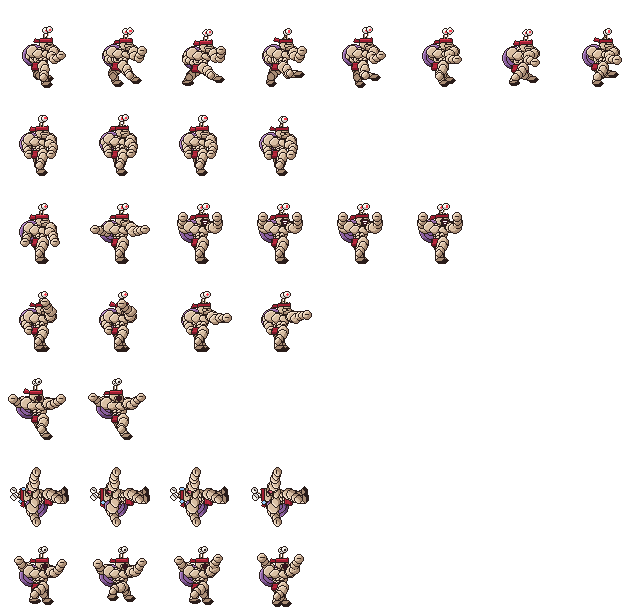
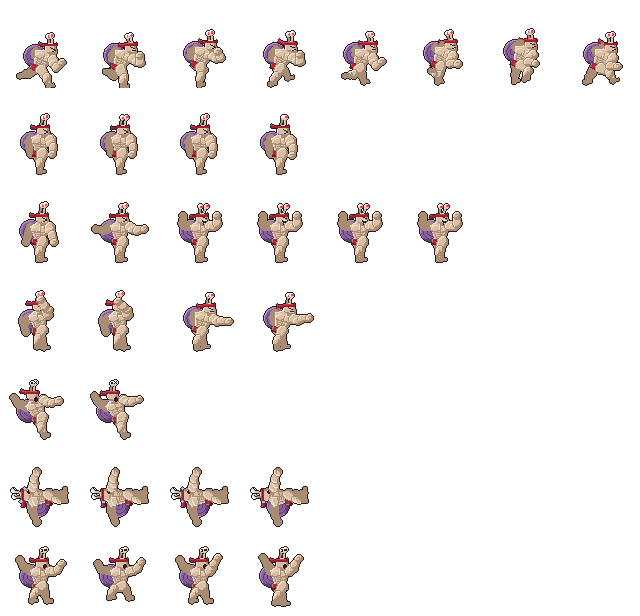
Senzi: contorno só na silhueta, sprint inclinado pose a pose; muros de tamanho sorteado (D112)
Claude-Session: https://claude.ai/code/session_01UUHK2L34Y5k1sZ9bGVAo6W

diff --git a/tools/art/senzi_sprites.py b/tools/art/senzi_sprites.py
@@ -83,20 +83,29 @@ class Canvas:
             o |= self._shift(m, dx, dy)
         return o
 
-    def part(self, draw_fn, base, dark=None, light=None, ink=True, shade=2):
-        """Uma parte: contorno de nanquim em volta, a cor e, recortadas nela, a sombra (embaixo e à
-        direita) e a luz (em cima e à esquerda)."""
+    def part(self, draw_fn, base, dark=None, light=None, ink=False, shade=2, sep=None):
+        """Uma parte: a cor e, recortadas nela, a sombra (embaixo e à direita) e a luz (em cima e à
+        esquerda). Sem contorno por parte (o nanquim vai só em volta da silhueta, no fim); `sep` é
+        uma linha fina de separação em volta (para um membro na frente de outro)."""
         m = self._mask(draw_fn)
         if not m.any():
             return m
         if ink:
             self.img[self._dilate(m) & ~m] = INK
+        elif sep is not None:
+            ring = self._dilate(m) & ~m & (self.img[:, :, 3] > 0)
+            self.img[ring] = sep
         self.img[m] = base
         if dark is not None:
             self.img[m & ~self._shift(m, -shade, -shade)] = dark
         if light is not None:
             self.img[m & ~self._shift(m, 1, 1)] = light
         return m
+
+    def outline(self):
+        """O nanquim: um contorno só, em volta da silhueta inteira."""
+        sil = self.img[:, :, 3] > 0
+        self.img[self._dilate(sil) & ~sil] = INK
 
     def line(self, p0, p1, col, w=1):
         im = Image.fromarray(self.img, "RGBA")
@@ -142,19 +151,32 @@ def polar(ang, ln):
 
 # ---------------------------------------------------------------- o boneco
 
+def rot(v, a):
+    """Gira o vetor (x, y) de tela por `a` rad (positivo: o alto vai para a frente, para a direita)."""
+    c, s_ = math.cos(a), math.sin(a)
+    return (v[0] * c - v[1] * s_, v[0] * s_ + v[1] * c)
+
+
+SEP = SKIN_D     # a linha fina que separa um membro do que está atrás dele
+
+
 def draw_senzi(pose):
     cv = Canvas()
     hip = pose["hip"]
-    lean = pose.get("lean", 0.0)
+    tilt = pose.get("tilt", 0.0)          # inclinação do tronco (a corrida de sprint: para a frente)
     breath = pose.get("breath", 0.0)
-    chest = add(hip, (lean * 6.0, -17.0 - breath))
-    sh_w = 13.0
-    sh_l = add(chest, (-sh_w, -1))
-    sh_r = add(chest, (sh_w, -1))
-    head = add(chest, (2.0 + lean * 3.0 + pose.get("head_dx", 0.0), -11.0 + pose.get("head_dy", 0.0)))
+
+    def U(dx, dy):
+        return add(hip, rot((dx, dy), tilt))
+
+    chest = U(0, -17.0 - breath)
+    sh_l = U(-12.0, -18.0 - breath)
+    sh_r = U(12.0, -18.0 - breath)
+    head = U(2.5 + pose.get("head_dx", 0.0), -29.0 + pose.get("head_dy", 0.0))
+    head = add(head, (pose.get("head_fwd", 0.0), 0))
 
     # a concha nas costas, atrás de tudo
-    shell_c = add(chest, (-11.0, 4.0 + pose.get("shell_dy", 0.0)))
+    shell_c = U(-11.0, -13.0 + pose.get("shell_dy", 0.0))
     cv.part(ell(shell_c, 13, 13), SHELL, SHELL_D, SHELL_L, shade=3)
     pts = []
     for i in range(40):
@@ -162,108 +184,105 @@ def draw_senzi(pose):
         r = 11.5 - i * 0.27
         pts.append((shell_c[0] + math.cos(a) * r, shell_c[1] + math.sin(a) * r))
     for i in range(len(pts) - 1):
-        cv.line(pts[i], pts[i + 1], INK, 1)
+        cv.line(pts[i], pts[i + 1], SHELL_D, 1)
 
     # as fitas da faixa, esvoaçando atrás da cabeça
     flap = pose.get("flap", 0.0)
     tail0 = add(head, (-6, -4))
-    cv.part(poly([tail0, add(tail0, (-7, -1 + flap)), add(tail0, (-8, 2 + flap)), add(tail0, (0, 2))]), BAND, BAND_D)
+    cv.part(poly([tail0, add(tail0, (-8, -2 + flap)), add(tail0, (-9, 2 + flap)), add(tail0, (0, 2))]), BAND, BAND_D)
 
-    # o braço de trás (atrás do tronco)
-    def arm(sh, a):
-        elbow = add(sh, polar(a["up"], 10.0))
-        fist = add(elbow, polar(a["fore"], 9.0))
-        bic = a.get("bic", 1.0)
-        cv.part(cap(sh, elbow, 5.0, 4.4), SKIN, SKIN_D, SKIN_L)
+    def arm(sh, a, front):
+        up_a = a["up"] + tilt * a.get("follow", 1.0)
+        fore_a = a["fore"] + tilt * a.get("follow", 1.0)
+        elbow = add(sh, polar(up_a, 10.5))
+        fist = add(elbow, polar(fore_a, 9.5))
+        sep = SEP if front else None
+        dk = SKIN_D
+        base = SKIN if front else SKIN_D
+        lt = SKIN_L if front else None
+        cv.part(cap(sh, elbow, 5.4, 4.6), base, dk, lt, sep=sep)
+        # o bíceps: volume no lado de dentro do braço, sem contorno (só a luz)
         mid = add(sh, (elbow[0] - sh[0], elbow[1] - sh[1]), 0.5)
-        # o bíceps: do lado de dentro do cotovelo
         nx, ny = -(elbow[1] - sh[1]), elbow[0] - sh[0]
         ln = math.hypot(nx, ny) or 1.0
         side = a.get("bic_side", 1.0)
-        bc = add(mid, (nx / ln * 2.6 * side, ny / ln * 2.6 * side))
-        cv.part(ell(bc, 5.2 * bic, 4.4 * bic), SKIN, SKIN_D, SKIN_L)
-        cv.part(cap(elbow, fist, 4.4, 3.6), SKIN, SKIN_D, SKIN_L)
-        fore_m = add(elbow, (fist[0] - elbow[0], fist[1] - elbow[1]), 0.4)
-        cv.part(ell(fore_m, 4.0, 3.6), SKIN, SKIN_D, SKIN_L)
-        cv.part(ell(fist, 4.4, 4.0), SKIN, SKIN_D, SKIN_L)
-        cv.line(add(fist, (-2, -1)), add(fist, (2, -1)), INK)   # nós dos dedos
-        if a.get("vein", True):
-            cv.line(add(bc, (-2, 1)), add(bc, (0, -1)), SKIN_D)
-            cv.line(add(bc, (0, -1)), add(bc, (2, 0)), SKIN_D)
+        bc = add(mid, (nx / ln * 2.0 * side, ny / ln * 2.0 * side))
+        cv.part(ell(bc, 4.8 * a.get("bic", 1.0), 4.0 * a.get("bic", 1.0)), base, dk, lt)
+        cv.part(cap(elbow, fist, 4.6, 3.8), base, dk, lt, sep=sep)
+        cv.part(ell(fist, 4.2, 3.9), base, dk, lt, sep=sep)
+        if front:
+            cv.line(add(fist, (-1.5, -1.5)), add(fist, (1.5, -1.5)), SKIN_D)   # nós dos dedos
 
-    arm(sh_l, pose["arm_back"])
-
-    # pernas (a de trás primeiro)
-    def leg(hp, lg, dark_side=False):
-        knee = add(hp, polar(lg["thigh"], 11.0))
-        foot = add(knee, polar(lg["calf"], 11.0))
-        base = SKIN_D if dark_side else SKIN
-        cv.part(cap(hp, knee, 5.6, 4.4), base, SKIN_D, None if dark_side else SKIN_L)
-        q = add(hp, (knee[0] - hp[0], knee[1] - hp[1]), 0.45)
-        cv.part(ell(add(q, (1.5, 0)), 4.6, 5.0), base, SKIN_D, None if dark_side else SKIN_L)
-        cv.part(cap(knee, foot, 4.0, 3.0), base, SKIN_D, None if dark_side else SKIN_L)
-        c2 = add(knee, (foot[0] - knee[0], foot[1] - knee[1]), 0.3)
-        cv.part(ell(add(c2, (-1.2, 0)), 3.4, 4.0), base, SKIN_D, None if dark_side else SKIN_L)
-        # o pé: uma sola de caramujo, larga
-        cv.part(ell(add(foot, (2.5, 1.0)), 5.5, 2.4), SKIN_D, INK)
+    def leg(hp, lg, front):
+        knee = add(hp, polar(lg["thigh"], 11.5))
+        foot = add(knee, polar(lg["calf"], 11.5))
+        base = SKIN if front else SKIN_D
+        lt = SKIN_L if front else None
+        sep = SEP if front else None
+        cv.part(cap(hp, knee, 6.0, 4.6), base, SKIN_D, lt, sep=sep)
+        cv.part(cap(knee, foot, 4.4, 3.0), base, SKIN_D, lt, sep=sep)
+        # a panturrilha (volume atrás da canela)
+        c2 = add(knee, (foot[0] - knee[0], foot[1] - knee[1]), 0.32)
+        cv.part(ell(add(c2, (-1.4, 0)), 3.4, 4.2), base, SKIN_D, lt)
+        # o pé: sola de caramujo, apontando para a frente
+        ang = lg.get("foot", 0.0)
+        cv.part(poly([add(foot, (-3, -2)), add(foot, rot((6.5, -1.5), ang)), add(foot, rot((6.5, 1.5), ang)), add(foot, (-3, 2))]), SKIN_D, None, None, sep=sep)
         return foot
 
-    hip_b = add(hip, (-4.0, 0))
-    hip_f = add(hip, (4.0, 0))
-    leg(hip_b, pose["leg_back"], dark_side=True)
+    # o braço e a perna de trás
+    arm(sh_l, pose["arm_back"], False)
+    leg(U(-3.5, 0), pose["leg_back"], False)
 
     # o tronco em V: cintura fina, ombros largos; o trapézio subindo até o pescoço
-    waist_l = add(hip, (-6.0, -2.0))
-    waist_r = add(hip, (6.0, -2.0))
-    cv.part(poly([waist_l, add(sh_l, (1, -2)), add(head, (-4, 5)), add(head, (4, 5)), add(sh_r, (-1, -2)), waist_r]), SKIN, SKIN_D, SKIN_L, shade=2)
-    # deltoides
-    cv.part(ell(sh_l, 6.4, 6.0), SKIN, SKIN_D, SKIN_L)
-    # peitoral: duas placas
-    pec_y = chest[1] + 2.0
-    for dx in (-5.4, 5.4):
-        cv.part(ell((chest[0] + dx, pec_y + breath * 0.3), 6.0, 4.6), SKIN, SKIN_D, SKIN_L)
-    # abdômen: seis gomos
+    torso = [U(-6, -2), U(-12, -19 - breath), U(-4, -24 - breath), U(5, -24 - breath), U(12, -19 - breath), U(6, -2)]
+    cv.part(poly(torso), SKIN, SKIN_D, SKIN_L, shade=2)
+    # peitoral: luz em cima, sombra embaixo, e a divisão (linha fina)
+    for dx in (-5.0, 5.0):
+        pc = U(dx, -15.5 - breath * 0.7)
+        cv.part(ell(pc, 5.6, 3.8), SKIN, SKIN_D, SKIN_L, shade=1)
+    cv.line(U(0, -18 - breath), U(0, -3), SKIN_D)
+    cv.line(U(-9, -12.5), U(-1, -11.5), SKIN_D)
+    cv.line(U(9, -12.5), U(1, -11.5), SKIN_D)
+    # abdômen: só as linhas dos gomos (sem bolinhas)
     for row in range(3):
-        y = pec_y + 7.0 + row * 3.6
-        for dx in (-2.4, 2.4):
-            cv.part(ell((chest[0] + dx + lean * (1 - row) * 0.5, y), 2.2, 1.6), SKIN, SKIN_D, SKIN_L, shade=1)
-    # serrátil
-    for i in range(3):
-        y = pec_y + 5.0 + i * 2.4
-        cv.line((chest[0] - 9.0 + i * 0.6, y), (chest[0] - 6.6 + i * 0.6, y + 1), INK)
+        y = -9.0 + row * 2.6
+        cv.line(U(-3.5, y), U(3.5, y), SKIN_D)
+    # oblíquo e serrátil
+    cv.line(U(-7, -12), U(-5, -4), SKIN_D)
     # o short de academia
-    cv.part(poly([add(hip, (-8, -3)), add(hip, (8, -3)), add(hip, (9, 4)), add(hip, (1, 5)), add(hip, (0, 2)), add(hip, (-1, 5)), add(hip, (-9, 4))]), SHORTS, SHORTS_D)
-    cv.line(add(hip, (-8, -2)), add(hip, (8, -2)), BAND_D)
+    cv.part(poly([U(-8, -3), U(8, -3), U(9, 4), U(1, 5), U(0, 2), U(-1, 5), U(-9, 4)]), SHORTS, SHORTS_D)
+    cv.line(U(-8, -2), U(8, -2), BAND_D)
 
-    leg(hip_f, pose["leg_front"])
-    cv.part(ell(sh_r, 6.6, 6.2), SKIN, SKIN_D, SKIN_L)
+    # a perna da frente
+    leg(U(3.5, 0), pose["leg_front"], True)
+    # deltoide da frente
+    cv.part(ell(sh_r, 6.2, 5.6), SKIN, SKIN_D, SKIN_L)
 
     # a cabeça: pequena, queixo quadrado, faixa vermelha, olhos nas antenas
-    cv.part(poly([add(head, (-4, 2)), add(head, (5, 2)), add(head, (5, 8)), add(head, (-4, 8))]), SKIN, SKIN_D, SKIN_L)
-    cv.part(ell(head, 7.0, 6.6), SKIN, SKIN_D, SKIN_L)
-    cv.part(poly([add(head, (0, 2)), add(head, (8, 1)), add(head, (8, 7)), add(head, (1, 7))]), SKIN, SKIN_D)   # o queixo quadrado
+    cv.part(poly([add(head, (-4, 2)), add(head, (5, 2)), add(head, (6, 9)), add(head, (-3, 9))]), SKIN, SKIN_D, SKIN_L)
+    cv.part(ell(head, 6.6, 6.2), SKIN, SKIN_D, SKIN_L)
+    cv.part(poly([add(head, (0, 2)), add(head, (8, 1)), add(head, (8, 7)), add(head, (1, 7))]), SKIN, SKIN_D)
     cv.part(poly([add(head, (-7, -5)), add(head, (7, -6)), add(head, (7, -3)), add(head, (-7, -2))]), BAND, BAND_D)
     face = pose.get("face", "angry")
     stalk = pose.get("stalk", 0.0)
+    sweep = pose.get("stalk_back", 0.0)   # na corrida, as antenas vão para trás com o vento
     for k, (ex, ln) in enumerate(((-1.5, 9.0), (2.5, 10.0))):
         base_p = add(head, (ex, -7))
-        tip = add(base_p, (1.5 + stalk * (1 if k else -1), -ln + abs(stalk)))
-        cv.line(base_p, tip, INK, 3)
-        cv.line(base_p, tip, SKIN_D if k == 0 else SKIN, 1)
-        cv.part(ell(tip, 2.6, 2.6), EYE, (210, 205, 200, 255))
+        tip = add(base_p, (1.5 + stalk * (1 if k else -1) - sweep, -ln + abs(stalk) + abs(sweep) * 0.4))
+        cv.line(base_p, tip, SKIN_D if k == 0 else SKIN, 2)
+        cv.part(ell(tip, 2.5, 2.5), EYE, (210, 205, 200, 255))
         if face == "tired":
-            cv.px(add(tip, (0, 0)), INK)
+            cv.px(tip, INK)
             cv.px(add(tip, (1, -1)), INK)
             cv.px(add(tip, (-1, 1)), INK)
         elif face == "pain":
             cv.line(add(tip, (-1, -1)), add(tip, (1, 1)), INK)
             cv.line(add(tip, (-1, 1)), add(tip, (1, -1)), INK)
         else:
-            cv.part(ell(add(tip, (1, 0)), 1.0, 1.0), PUPIL, ink=False)
-    # sobrancelha e boca
+            cv.part(ell(add(tip, (1, 0)), 1.0, 1.0), PUPIL)
     if face in ("angry", "throw"):
         cv.line(add(head, (0, -1)), add(head, (5, 1)), INK, 1)
-        cv.line(add(head, (1, 4)), add(head, (6, 3)), INK, 1)
+        cv.line(add(head, (2, 4)), add(head, (6, 3)), INK, 1)
     elif face == "roar":
         cv.line(add(head, (0, -2)), add(head, (5, 0)), INK, 1)
         cv.part(poly([add(head, (1, 2)), add(head, (7, 2)), add(head, (6, 7)), add(head, (2, 7))]), MOUTH)
@@ -273,13 +292,13 @@ def draw_senzi(pose):
         cv.part(ell(add(head, (4, 4)), 2.0, 2.5), MOUTH)
     elif face == "tired":
         cv.part(ell(add(head, (4, 4)), 2.0, 1.8), MOUTH)
-        cv.part(ell(add(head, (5, 6)), 1.4, 1.6), TONGUE, ink=False)
+        cv.part(ell(add(head, (5, 6)), 1.4, 1.6), TONGUE)
 
     # o braço da frente (por cima de tudo)
-    arm(sh_r, pose["arm_front"])
-
-    for s in pose.get("sweat", []):
-        cv.part(ell(add(head, s), 1.0, 1.6), SWEAT)
+    arm(sh_r, pose["arm_front"], True)
+    for sw in pose.get("sweat", []):
+        cv.part(ell(add(head, sw), 1.0, 1.6), SWEAT)
+    cv.outline()
     return cv.img
 
 
@@ -288,37 +307,50 @@ def draw_senzi(pose):
 def stand_hip(leg_b, leg_f, base_x=40.0, dy=0.0):
     """O quadril na altura em que o pé mais baixo encosta no chão."""
     def low(lg):
-        return math.cos(lg["thigh"]) * 11.0 + math.cos(lg["calf"]) * 11.0 + 2.0
+        return math.cos(lg["thigh"]) * 11.5 + math.cos(lg["calf"]) * 11.5 + 2.0
     drop = max(low(leg_b), low(leg_f))
     return (base_x, GROUND - drop + dy)
 
 
+# O ciclo de sprint, pose a pose (ângulos a partir da vertical, positivo = para a frente): a perna A;
+# a B é a mesma com meio ciclo de atraso.
+RUN_LEG = [
+    (0.65, 0.25),    # 0 contato: o pé da frente pousa à frente
+    (0.30, -0.05),   # 1 apoio: o peso desce
+    (0.00, -0.15),   # 2 passagem: a perna debaixo do corpo
+    (-0.55, -0.55),  # 3 impulso
+    (-0.85, -1.35),  # 4 saída: a perna esticada atrás, o pé no ar
+    (-0.25, -2.05),  # 5 recuperação: o calcanhar sobe
+    (0.95, -0.45),   # 6 joelho alto
+    (1.15, 0.45),    # 7 alcance: a canela abre para a frente
+]
+RUN_HIP = [0.0, 1.2, 0.8, -0.6, -2.0, -2.2, -1.0, -0.2]   # sobe no voo, desce no apoio
+
+
 def run_pose(i, n=8):
-    a = 2 * math.pi * i / n
-    legs = []
-    for k in (0, 1):
-        s = math.sin(a + k * math.pi)
-        c = math.cos(a + k * math.pi)
-        thigh = -s * 0.75 + 0.1
-        lift = max(0.0, c) * 1.1
-        calf = thigh + lift + (0.15 if s < 0 else 0.0)
-        legs.append({"thigh": thigh, "calf": calf})
-    hip = stand_hip(legs[0], legs[1], dy=-abs(math.sin(a)) * 1.5)
+    """Sprint: tronco inclinado para a frente, joelho alto, a perna de trás esticada no impulso, os
+    braços bombeando em arco grande (o punho da frente sobe até a altura do rosto)."""
+    la = RUN_LEG[i % 8]
+    lb = RUN_LEG[(i + 4) % 8]
+    legs = [{"thigh": la[0], "calf": la[1], "foot": -0.2}, {"thigh": lb[0], "calf": lb[1], "foot": -0.2}]
+    # o pé de apoio no chão: o mais baixo dos dois, menos nos quadros de voo
+    hip = stand_hip(legs[0], legs[1], base_x=38.0, dy=RUN_HIP[i % 8] + (2.0 if i % 4 in (0, 1) else 0.0))
+    a = 2 * math.pi * i / 8
     arms = []
     for k in (0, 1):
-        s = math.sin(a + k * math.pi)
-        arms.append({"up": s * 0.9 + 0.15, "fore": s * 0.9 + 2.1, "bic": 1.0})
-    return {"hip": hip, "lean": 0.6, "breath": 0.0, "leg_back": legs[0], "leg_front": legs[1],
-            "arm_back": arms[1], "arm_front": arms[0], "face": "angry", "flap": math.sin(a * 2) * 2,
-            "stalk": math.sin(a * 2) * 1.0, "shell_dy": math.sin(a * 2) * 0.6}
+        s_ = math.sin(a + k * math.pi)        # oposto à perna do mesmo lado
+        arms.append({"up": -s_ * 1.0 + 0.15, "fore": -s_ * 0.9 + 2.0 + max(0.0, -s_) * 0.5, "bic": 1.0, "follow": 0.5})
+    return {"hip": hip, "tilt": 0.42, "breath": 0.0, "leg_back": legs[1], "leg_front": legs[0],
+            "arm_back": arms[0], "arm_front": arms[1], "face": "angry", "flap": math.sin(a * 2) * 2 - 1,
+            "stalk": 0.0, "stalk_back": 3.0 + math.sin(a * 2), "head_fwd": 1.0, "shell_dy": math.sin(a * 2) * 0.6}
 
 
 def idle_pose(i, n=4):
     b = math.sin(2 * math.pi * i / n)
     legs = [{"thigh": 0.28, "calf": 0.05}, {"thigh": -0.28, "calf": -0.05}]
     hip = stand_hip(legs[0], legs[1])
-    return {"hip": hip, "lean": 0.0, "breath": b * 0.8, "leg_back": legs[0], "leg_front": legs[1],
-            "arm_back": {"up": -0.35, "fore": 0.25, "bic": 1.0 + b * 0.03}, "arm_front": {"up": 0.35, "fore": -0.25, "bic": 1.0 + b * 0.03},
+    return {"hip": hip, "tilt": 0.05, "breath": b * 0.8, "leg_back": legs[0], "leg_front": legs[1],
+            "arm_back": {"up": -0.3, "fore": 0.2}, "arm_front": {"up": 0.3, "fore": -0.2},
             "face": "angry", "flap": b, "stalk": b * 0.5}
 
 
@@ -328,7 +360,7 @@ def flex_pose(i, n=6):
     legs = [{"thigh": 0.35, "calf": 0.1}, {"thigh": -0.35, "calf": -0.1}]
     hip = stand_hip(legs[0], legs[1])
     up = 1.9 * k
-    return {"hip": hip, "lean": 0.0, "breath": 1.2 * k, "leg_back": legs[0], "leg_front": legs[1],
+    return {"hip": hip, "tilt": 0.0, "breath": 1.2 * k, "leg_back": legs[0], "leg_front": legs[1],
             "arm_back": {"up": -0.3 - up * 0.85, "fore": -0.3 - up * 1.55, "bic": 1.0 + 0.3 * k + pulse, "bic_side": -1.0},
             "arm_front": {"up": 0.3 + up * 0.85, "fore": 0.3 + up * 1.55, "bic": 1.0 + 0.3 * k + pulse},
             "face": "roar" if i >= 2 else "angry", "flap": 2.0 * k, "stalk": 1.5 * k}
@@ -336,17 +368,18 @@ def flex_pose(i, n=6):
 
 def throw_pose(i, n=4):
     w = [-1.0, -1.6, 0.6, 1.4][i]
-    legs = [{"thigh": 0.4, "calf": 0.2}, {"thigh": -0.45, "calf": -0.15}]
+    legs = [{"thigh": 0.5, "calf": 0.25}, {"thigh": -0.5, "calf": -0.15}]
     hip = stand_hip(legs[0], legs[1])
-    return {"hip": hip, "lean": 0.3 * (w > 0), "breath": 0.0, "leg_back": legs[0], "leg_front": legs[1],
-            "arm_back": {"up": -0.4, "fore": 0.4}, "arm_front": {"up": math.pi - 0.3 * w if w < 0 else 1.2 + w * 0.3, "fore": math.pi - 0.5 * w if w < 0 else 1.4 + w * 0.2, "bic": 1.15},
+    return {"hip": hip, "tilt": -0.15 if w < 0 else 0.3, "breath": 0.0, "leg_back": legs[0], "leg_front": legs[1],
+            "arm_back": {"up": -0.4, "fore": 0.4},
+            "arm_front": {"up": math.pi - 0.3 * w if w < 0 else 1.2 + w * 0.3, "fore": math.pi - 0.5 * w if w < 0 else 1.4 + w * 0.2, "bic": 1.15, "follow": 0.0},
             "face": "throw", "flap": w}
 
 
 def hurt_pose(i, n=2):
     legs = [{"thigh": 0.5, "calf": 0.3}, {"thigh": -0.2, "calf": 0.4}]
     hip = stand_hip(legs[0], legs[1])
-    return {"hip": hip, "lean": -0.6, "breath": 1.0, "leg_back": legs[0], "leg_front": legs[1],
+    return {"hip": hip, "tilt": -0.35, "breath": 1.0, "leg_back": legs[0], "leg_front": legs[1],
             "arm_back": {"up": -1.6 - i * 0.2, "fore": -2.2}, "arm_front": {"up": 1.6 + i * 0.2, "fore": 2.2},
             "face": "pain", "head_dx": -2.0, "flap": -2.0 + i * 3}
 
@@ -355,8 +388,8 @@ def tired_pose(i, n=4):
     b = math.sin(2 * math.pi * i / n)
     legs = [{"thigh": 0.6, "calf": 0.2}, {"thigh": -0.5, "calf": -0.2}]
     hip = stand_hip(legs[0], legs[1])
-    return {"hip": hip, "lean": 0.0, "breath": 1.5 + b * 1.4, "leg_back": legs[0], "leg_front": legs[1],
-            "arm_back": {"up": -1.4, "fore": -1.2, "vein": False}, "arm_front": {"up": 1.4, "fore": 1.2, "vein": False},
+    return {"hip": hip, "tilt": 0.0, "breath": 1.5 + b * 1.4, "leg_back": legs[0], "leg_front": legs[1],
+            "arm_back": {"up": -1.4, "fore": -1.2}, "arm_front": {"up": 1.4, "fore": 1.2},
             "face": "tired", "flap": 0.0, "stalk": 2.0, "head_dy": 1.0,
             "sweat": [(-8, -6 + i), (8, -4 + (i + 2) % 4)] if i % 2 == 0 else [(-9, -3)]}
 
@@ -365,7 +398,7 @@ def fly_pose(i, n=4):
     a = 2 * math.pi * i / n
     legs = [{"thigh": 0.9 + math.sin(a) * 0.4, "calf": 0.3}, {"thigh": -0.9 - math.sin(a) * 0.4, "calf": -0.4}]
     hip = (40.0, 52.0)
-    return {"hip": hip, "lean": 0.0, "breath": 1.0, "leg_back": legs[0], "leg_front": legs[1],
+    return {"hip": hip, "tilt": 0.0, "breath": 1.0, "leg_back": legs[0], "leg_front": legs[1],
             "arm_back": {"up": -2.2 + math.sin(a) * 0.5, "fore": -2.6}, "arm_front": {"up": 2.2 - math.sin(a + 1) * 0.5, "fore": 2.6},
             "face": "pain", "flap": math.sin(a * 2) * 3}
 

diff --git a/docs/DECISOES.md b/docs/DECISOES.md
@@ -814,3 +814,5 @@ Diagnóstico que motivou estas decisões: as salas atuais são todas uma caixa v
 - **Senzi bípede (Victor: "ele é literalmente bípede, como no meu desenho"):** anda e corre em pé, sobre duas pernas (coxa e panturrilha, ciclo de corrida, pés de sola de caramujo), com a concha nas costas e um short vermelho de academia; os braços bombeiam opostos às pernas. Sobe paredes e anda no teto correndo em pé (o "para cima" dele é a normal da superfície). Cansado, deita de costas em cima da concha, com as pernas para o ar. A caixa de colisão ficou 22×24 (estreita e alta; o coelho ainda pula por cima); a cabeça e as antenas passam do alto dela.
 - **Senzi ainda mais bombado (Victor: "como no meu desenho, com os traços bem aparentes"):** proporções exageradas (ombros e trapézio enormes, braços e coxas grossos, peitoral de duas placas arredondadas, seis gomos contornados, serrátil, cintura fina, queixo quadrado, pescoço grosso, nós dos dedos), um pouco maior (12%), e tudo com um contorno grosso de nanquim (`C_INK`), inclusive a espiral da concha. A caixa de colisão foi para 24×26 (o coelho ainda pula por cima).
 - **Senzi em sprites quadro a quadro (Victor: "maior, para vermos melhor os traços; animações realmente detalhadas, frame a frame"):** o desenho em tempo real deu lugar a uma folha de sprites de pixel art (`art/senzi.png`, quadros de 80×88), gerada por `tools/art/senzi_sprites.py` a partir de um esqueleto por quadro: cada parte (coxas, panturrilhas, tronco com trapézio, deltoides, peitoral, seis gomos, bíceps, antebraços, punhos, cabeça de queixo quadrado, antenas, concha em espiral, faixa e fitas, short) contornada a nanquim e sombreada (luz do alto à esquerda). Animações: corrida (8 quadros, o quadro segue a distância corrida), parado respirando (4), flexão e rugido (6), arremesso do haltere (4), dor (2), cansado deitado de costas ofegando e suando (4) e voando arremessado (4). Ele ficou com uns 58 px de altura, desenhado 1:1 (traço nítido). Com o tamanho novo: a arena foi para 36×22 e a caixa de colisão para 28×40 (o coelho não pula mais por cima dele: escapa girando, enquanto ele fica grudado, e com a demora dele para dar meia-volta).
+- **Senzi, arte 3ª passada (Victor: "parece feito de círculos; traços excessivos; está duro; quero que corra inclinado, numa sprint; ele é um atleta"):** um contorno de nanquim só, em volta da silhueta inteira; por dentro, os músculos aparecem por luz e sombra, com poucas linhas finas em tom de pele escura (divisão do peitoral, gomos do abdômen, oblíquo); o membro da frente tem só uma linha fina de separação. A corrida virou um ciclo de sprint pose a pose (contato, apoio, passagem, impulso, saída com a perna esticada atrás, recuperação com o calcanhar subindo, joelho alto, alcance), com o tronco inclinado uns 25° para a frente, a cabeça adiante, as antenas e as fitas da faixa varridas para trás pelo vento, os braços bombeando em arco grande e o quadril subindo no voo do passo.
+- **Muros de cogumelo de tamanho sorteado:** largura de 9 a 16 px e altura de 10 a 26 px (o pulo é 30), a uma distância sorteada à frente do coelho: não dá para decorar o padrão.
